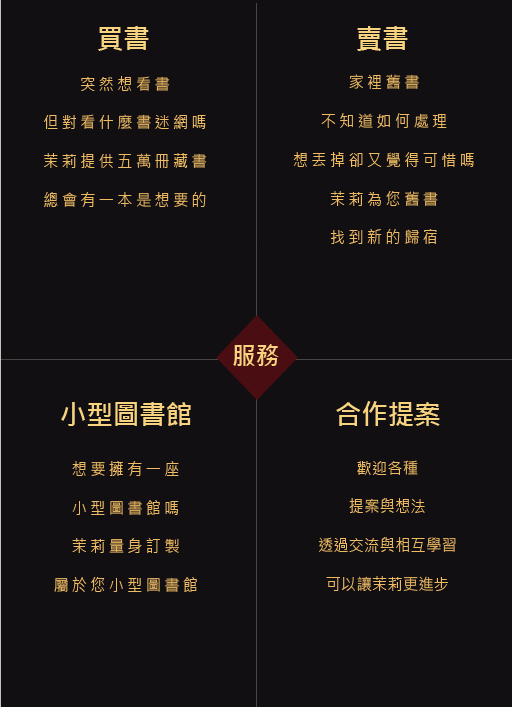
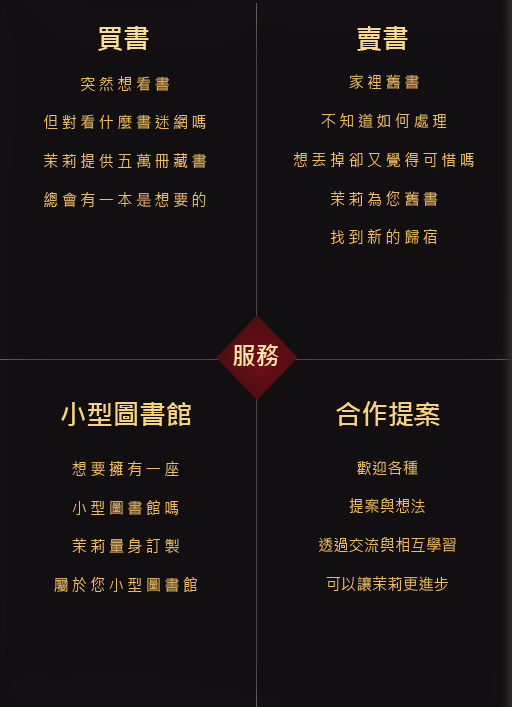
00

Changed region(s): [[0.4375, 0.4668, 0.5625, 0.529], [0.1875, 0.0311, 0.2812, 0.0622]]

diff --git a/onepage/index.html b/onepage/index.html
@@ -209,52 +209,54 @@ yepnope({
 	complete: loadApp
 });
 $(".index").click(function(){
-	$(".q1").show();
-	$(".index").hide();
+	$(".q1").fadeIn();
+	$(".index").fadeOut();
 })
 $("#y1").click(function(){
-	$(".q1").hide();
-	$(".q2").show();
+	$(".q1").fadeOut();
+	$(".q2").fadeIn();
 })
 $("#y2").click(function(){
-	$(".q2").hide();
-	$(".q3").show();
+	$(".q2").fadeOut();
+	$(".q3").fadeIn();
 })
 $("#y3").click(function(){
-	$(".q3").hide();
-	$(".intr").show();
+	$(".q3").fadeOut();
+	$(".intr").fadeIn();
 })
 $(".no").click(function(){
-	$(".q1").hide();
-	$(".bye").show();
+	$(".q1").fadeOut();
+	$(".q2").fadeOut();
+	$(".q3").fadeOut();
+	$(".bye").fadeIn();
 })
 $(".moll").click(function(){
-	$(".bye").hide();
-	$(".intr").show();
+	$(".bye").fadeOut();
+	$(".intr").fadeIn();
 })
 $("#gal1").click(function(){
-	$(".intr").hide();
-	$(".gal").show();
+	$(".intr").fadeOut();
+	$(".gal").fadeIn();
 })
 $("#gal2").click(function(){
-	$(".inf").hide();
-	$(".gal").show();
+	$(".inf").fadeOut();
+	$(".gal").fadeIn();
 })
 $("#inf1").click(function(){
-	$(".intr").hide();
-	$(".inf").show();
+	$(".intr").fadeOut();
+	$(".inf").fadeIn();
 })
 $("#inf2").click(function(){
-	$(".gal").hide(); 
-	$(".inf").show();
+	$(".gal").fadeOut(); 
+	$(".inf").fadeIn();
 })
 $("#intr1").click(function(){
-	$(".gal").hide();
-	$(".intr").show();
+	$(".gal").fadeOut();
+	$(".intr").fadeIn();
 })
 $("#intr2").click(function(){
-	$(".inf").hide();
-	$(".intr").show();
+	$(".inf").fadeOut();
+	$(".intr").fadeIn();
 })
 jQuery(document).ready(function($) {
             

diff --git a/onepage/css/basic.css b/onepage/css/basic.css
@@ -9,7 +9,6 @@ body{
 h6{
 	margin:0px;
 	padding:13% 0 0 1%;
-	letter-spacing:5px;
 }
 .flipbook-viewport{
 	/* overflow:hidden; */
@@ -202,7 +201,6 @@ h6{
 .intr li{
 	padding:5%;
 	font-size:15px;
-	letter-spacing: 5px;
 }
 .btn{
 	font-size:18px;
@@ -219,7 +217,6 @@ h6{
 }
 .inf{
 	display: none;
-	letter-spacing:5px;
 }
 h3{
 	margin:7.5% auto;
